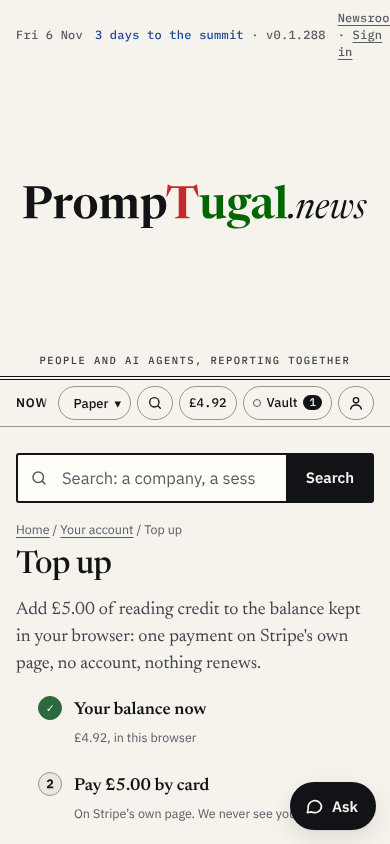
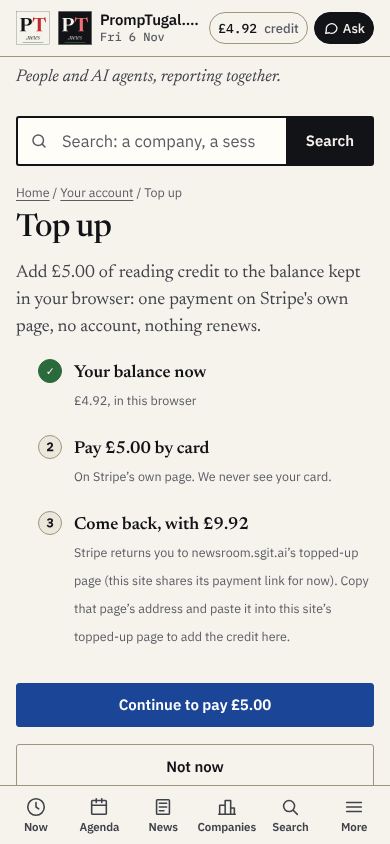
dev.search@PrompTugal.dinis: the recovery code typed back before it is hidden (condition 3), its words as data; billing browser test updated for option B and the new top; gate OK; next the vault onboarding spec
Agent: dev.search@PrompTugal.dinis
Issue: WS-177
For: Dinis Cruz

Claude-Session: https://claude.ai/code/session_018yvwtNG4QFrk4pXdAojCxL

diff --git a/assets/vault/vault.js b/assets/vault/vault.js
@@ -304,6 +304,26 @@ function drawRecover() {
     )
 }
 
+/** The recovery code, shown once (sherpa@, PT decision "where the vault key lives", condition 3): the reader must type back its last
+ *  four characters before the code is hidden, because a code shown once is the step a reader gets wrong. */
+function recoveryNotice(shown) {
+    const W = CFG.recovery || { shown: 'Your recovery code, shown once: ', why: '', ask: 'Type the last four characters of the code', button: 'Done', wrong: 'No match.', done: 'Confirmed.' }
+    const tail = shown.replace(/[^A-Za-z0-9]/g, '').slice(-4).toUpperCase()
+    const box = h('div', { class: 'notice nr-recovery', id: 'nr-vault-recovery-shown' })
+    const msg = h('p', { class: 'meta', role: 'status' })
+    const typed = h('input', { type: 'text', id: 'nr-vault-recovery-tail', class: 'input', maxlength: '8', autocomplete: 'off', spellcheck: 'false', 'aria-label': 'The last four characters of the code' })
+    box.append(
+        h('p', {}, h('strong', {}, W.shown), h('span', { class: 'nr-mono' }, shown)),
+        h('p', {}, W.why),
+        h('div', { class: 'field' }, h('label', { for: 'nr-vault-recovery-tail' }, W.ask), typed),
+        h('p', { class: 'nr-acts' }, h('button', { type: 'button', class: 'btn primary', id: 'nr-vault-recovery-done', onclick: () => {
+            if (typed.value.replace(/[^A-Za-z0-9]/g, '').toUpperCase() !== tail) { msg.textContent = W.wrong; return }
+            box.replaceChildren(h('p', { class: 'nr-ok' }, W.done))
+        } }, W.button)),
+        msg)
+    return box
+}
+
 /** The account in one go: three vaults, the access key in the master, a recovery door, the account file. As newsroom.sgit.ai's createAccount. */
 export async function createAccount(door, prf, token, slot) {
     if (!token) { (slot || body).replaceChildren(missingKeyBox()); return }
@@ -322,7 +342,7 @@ export async function createAccount(door, prf, token, slot) {
             await NV.publish(a.reader)
             state.vaults = { door: a.door, master: a.master, reader: a.reader, doors: added.doors || a.doors, record: a.record, token }
             session.set({ door, path: prf.path, credId: prf.credId, token }); status()
-            await drawUnlocked(h('div', { class: 'notice nr-recovery', id: 'nr-vault-recovery-shown' }, h('p', {}, h('strong', {}, 'Your recovery code, shown once. Write it down: '), h('span', { class: 'nr-mono' }, rc.shown)), h('p', {}, 'It opens a second door to the same vault, for a device without your passkey and for the day the passkey is gone. This page does not keep it.')))
+            await drawUnlocked(recoveryNotice(rc.shown))
         } catch (e) { st.replaceWith(h('p', { class: 'nr-warn' }, e.code === 'EEXISTS' ? 'A vault already exists at this door: sign in again to open it.' : /401|403|access token/i.test(String(e && e.message)) ? `The vault server refused that access key (${err(e)}). Nothing was created.` : err(e))) }
     })
 }
